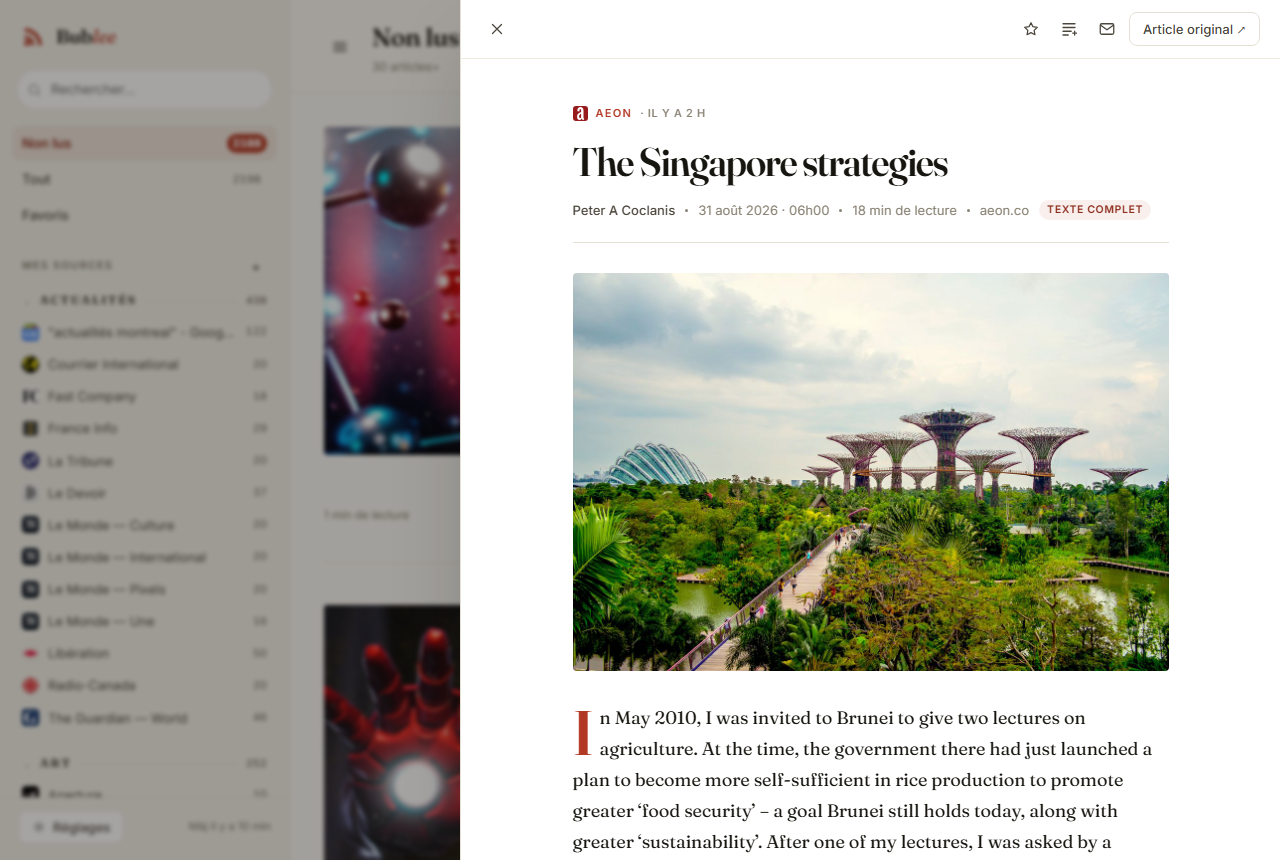
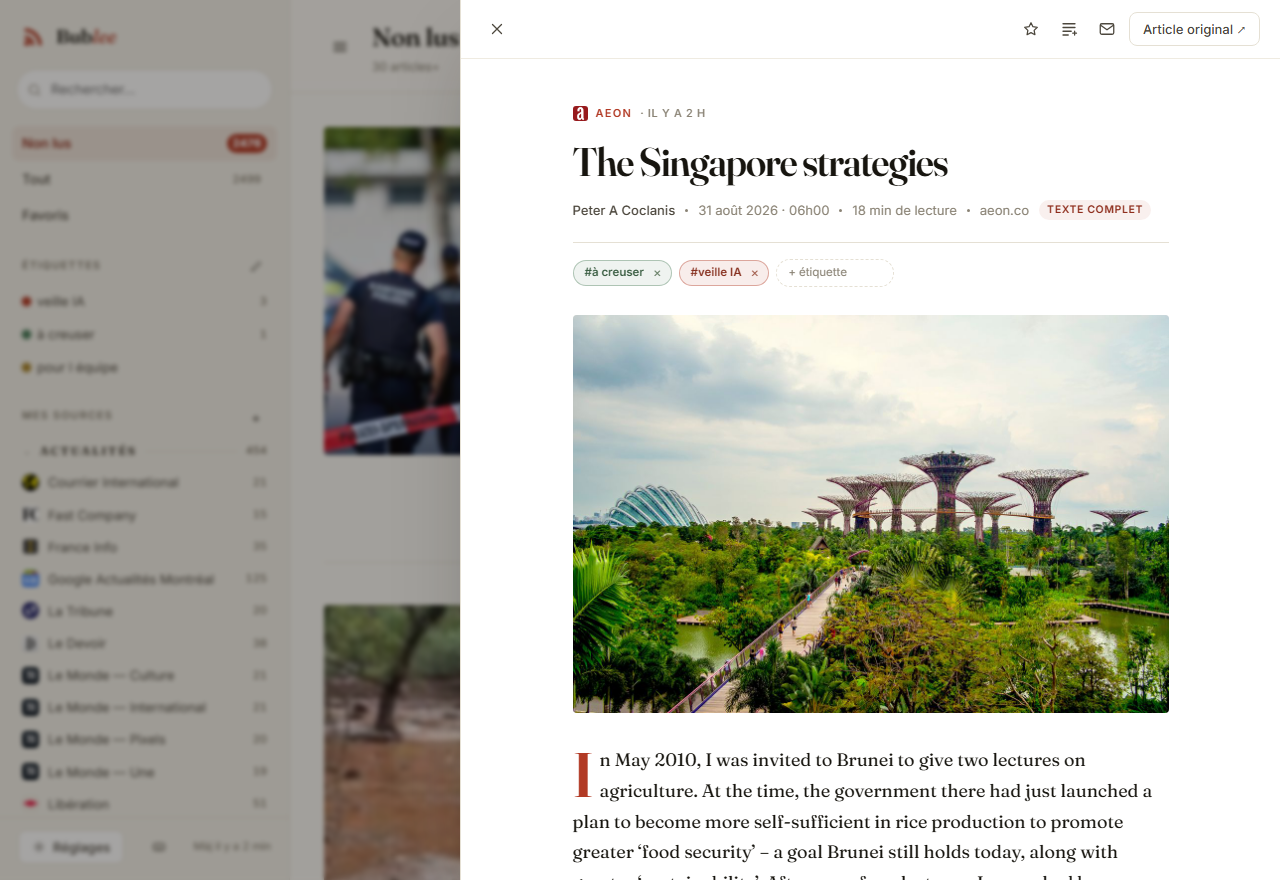
Captures du README sur les nouvelles fonctions
Quatre vues plutôt que deux : la grille avec les étiquettes dans la colonne
de gauche, le lecteur d'un essai d'Aeon (texte complet récupéré, étiquettes
colorées, lettrine), une vidéo de chaîne YouTube lue sur place, et le
gestionnaire d'étiquettes.

Les captures se prennent en headless : trois liens directs les rendent
atteignables — #/article/:id, #/tags, #/shortcuts. Utiles en marque-page.

Correction repérée en composant ces captures : le lecteur décidait qu'un
article était une vidéo dès que son contenu portait une <iframe> YouTube.
Un billet de blog qui cite une vidéo perdait donc son temps de lecture et
son image d'ouverture. La détection se fie désormais à l'adresse.

diff --git a/public/js/app.js b/public/js/app.js
@@ -68,9 +68,11 @@ async function boot() {
   }
   wireEvents();
 
-  // Lien direct vers un article : #/article/482
-  const cible = /^#\/article\/(\d+)$/.exec(location.hash);
-  if (cible) openArticle(Number(cible[1]));
+  // Liens directs : #/article/482, #/tags, #/shortcuts
+  const article = /^#\/article\/(\d+)$/.exec(location.hash);
+  if (article) openArticle(Number(article[1]));
+  else if (location.hash === '#/tags') ouvrirGestionTags();
+  else if (location.hash === '#/shortcuts') openModal('#shortcutsModal');
 }
 
 function absorb(data) {
@@ -547,7 +549,9 @@ async function completerArticle(article, force = false) {
 function renderReader(article) {
   const suivant = articleSuivant();
   // Une vidéo : le lecteur remplace le texte, la miniature ferait doublon.
-  const estVideo = /<iframe[^>]+(youtube|vimeo|dailymotion)/i.test(article.content || '');
+  // On se fie à l'adresse, pas au contenu : un article qui *cite* une vidéo
+  // reste un article, avec son temps de lecture et son image d'ouverture.
+  const estVideo = /(^|\/\/)(www\.)?(youtube\.com\/watch|youtu\.be\/)/.test(article.url || '');
 
   $('#readerStar').classList.toggle('on', Boolean(article.starred));
   $('#readerFull').hidden = estVideo || !article.url;

diff --git a/README.md b/README.md
@@ -7,14 +7,27 @@ la machine à part les requêtes vers les flux eux-mêmes.
 <p align="center">
   <img src="docs/magazine.png" width="720"
        alt="La vue magazine : une grande une, puis une grille rythmée par des cartes larges">
-  <br><em>La vue magazine.</em>
+  <br><em>La vue magazine. À gauche, les étiquettes et leurs teintes, puis les sources.</em>
 </p>
 
 <p align="center">
   <img src="docs/lecteur.png" width="720"
-       alt="Le lecteur : lettrine, temps de lecture, texte complet récupéré sur la page d'origine">
-  <br><em>Le lecteur. L'étiquette « texte complet » signale un article que le
-  flux ne publiait qu'en résumé.</em>
+       alt="Le lecteur : étiquettes colorées, lettrine, temps de lecture, texte complet">
+  <br><em>Le lecteur. Aeon ne publie qu'un résumé de 27 mots : l'étiquette
+  « texte complet » signale les 4 100 mots récupérés sur la page d'origine.</em>
+</p>
+
+<p align="center">
+  <img src="docs/video.png" width="720"
+       alt="Une vidéo de chaîne YouTube lue dans Bublee, avec le lecteur intégré">
+  <br><em>Une chaîne YouTube arrive comme n'importe quelle source. Le lecteur
+  joue la vidéo sur place, la description garde ses liens.</em>
+</p>
+
+<p align="center">
+  <img src="docs/etiquettes.png" width="720"
+       alt="Le gestionnaire d'étiquettes : renommer, reteindre, supprimer">
+  <br><em>Le gestionnaire d'étiquettes : créer, renommer, reteindre, supprimer.</em>
 </p>
 
 ## Démarrer
@@ -291,6 +304,9 @@ curl -s 'http://127.0.0.1:4321/api/articles?view=all&tag=veille%20IA' | jq -r '.
 # les deux à la fois (et non l'une ou l'autre)
 curl -s 'http://127.0.0.1:4321/api/articles?view=all&tag=veille%20IA,à%20lire'
 ```
+
+Trois adresses directes, utiles en marque-page : `#/article/482` ouvre un
+article, `#/tags` le gestionnaire d'étiquettes, `#/shortcuts` l'aide-mémoire.
 
 ## Raccourcis clavier
 
